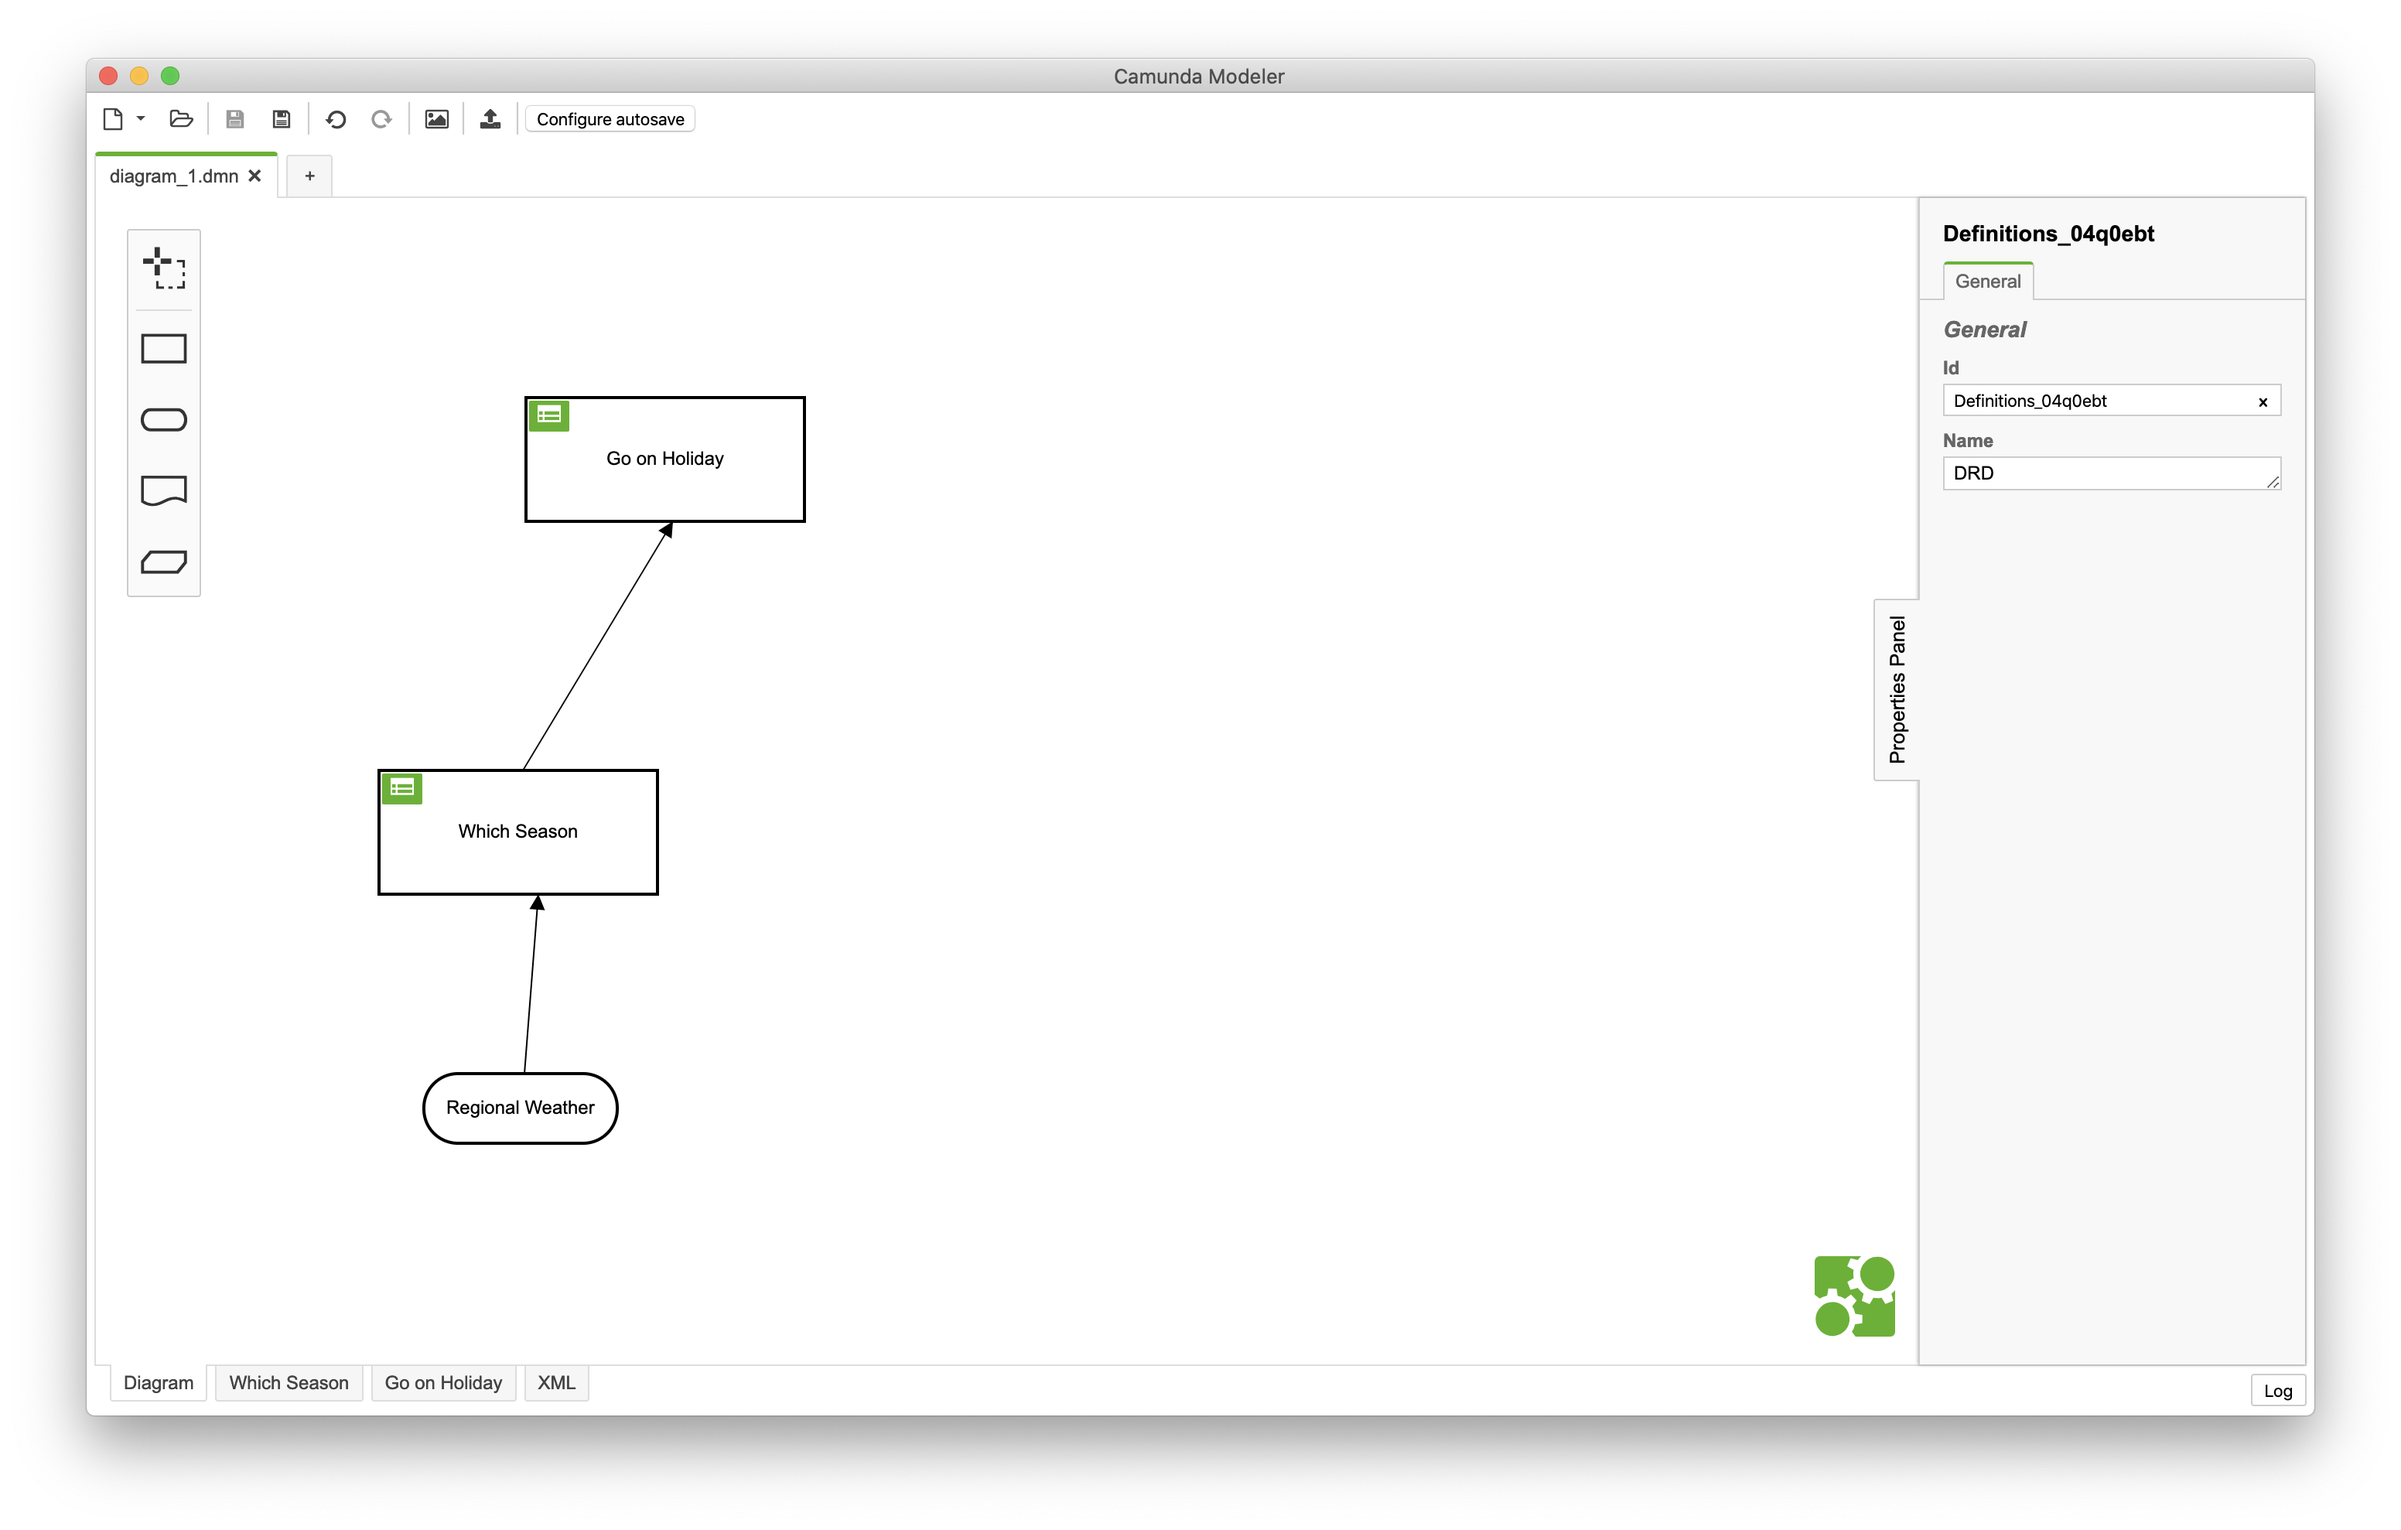
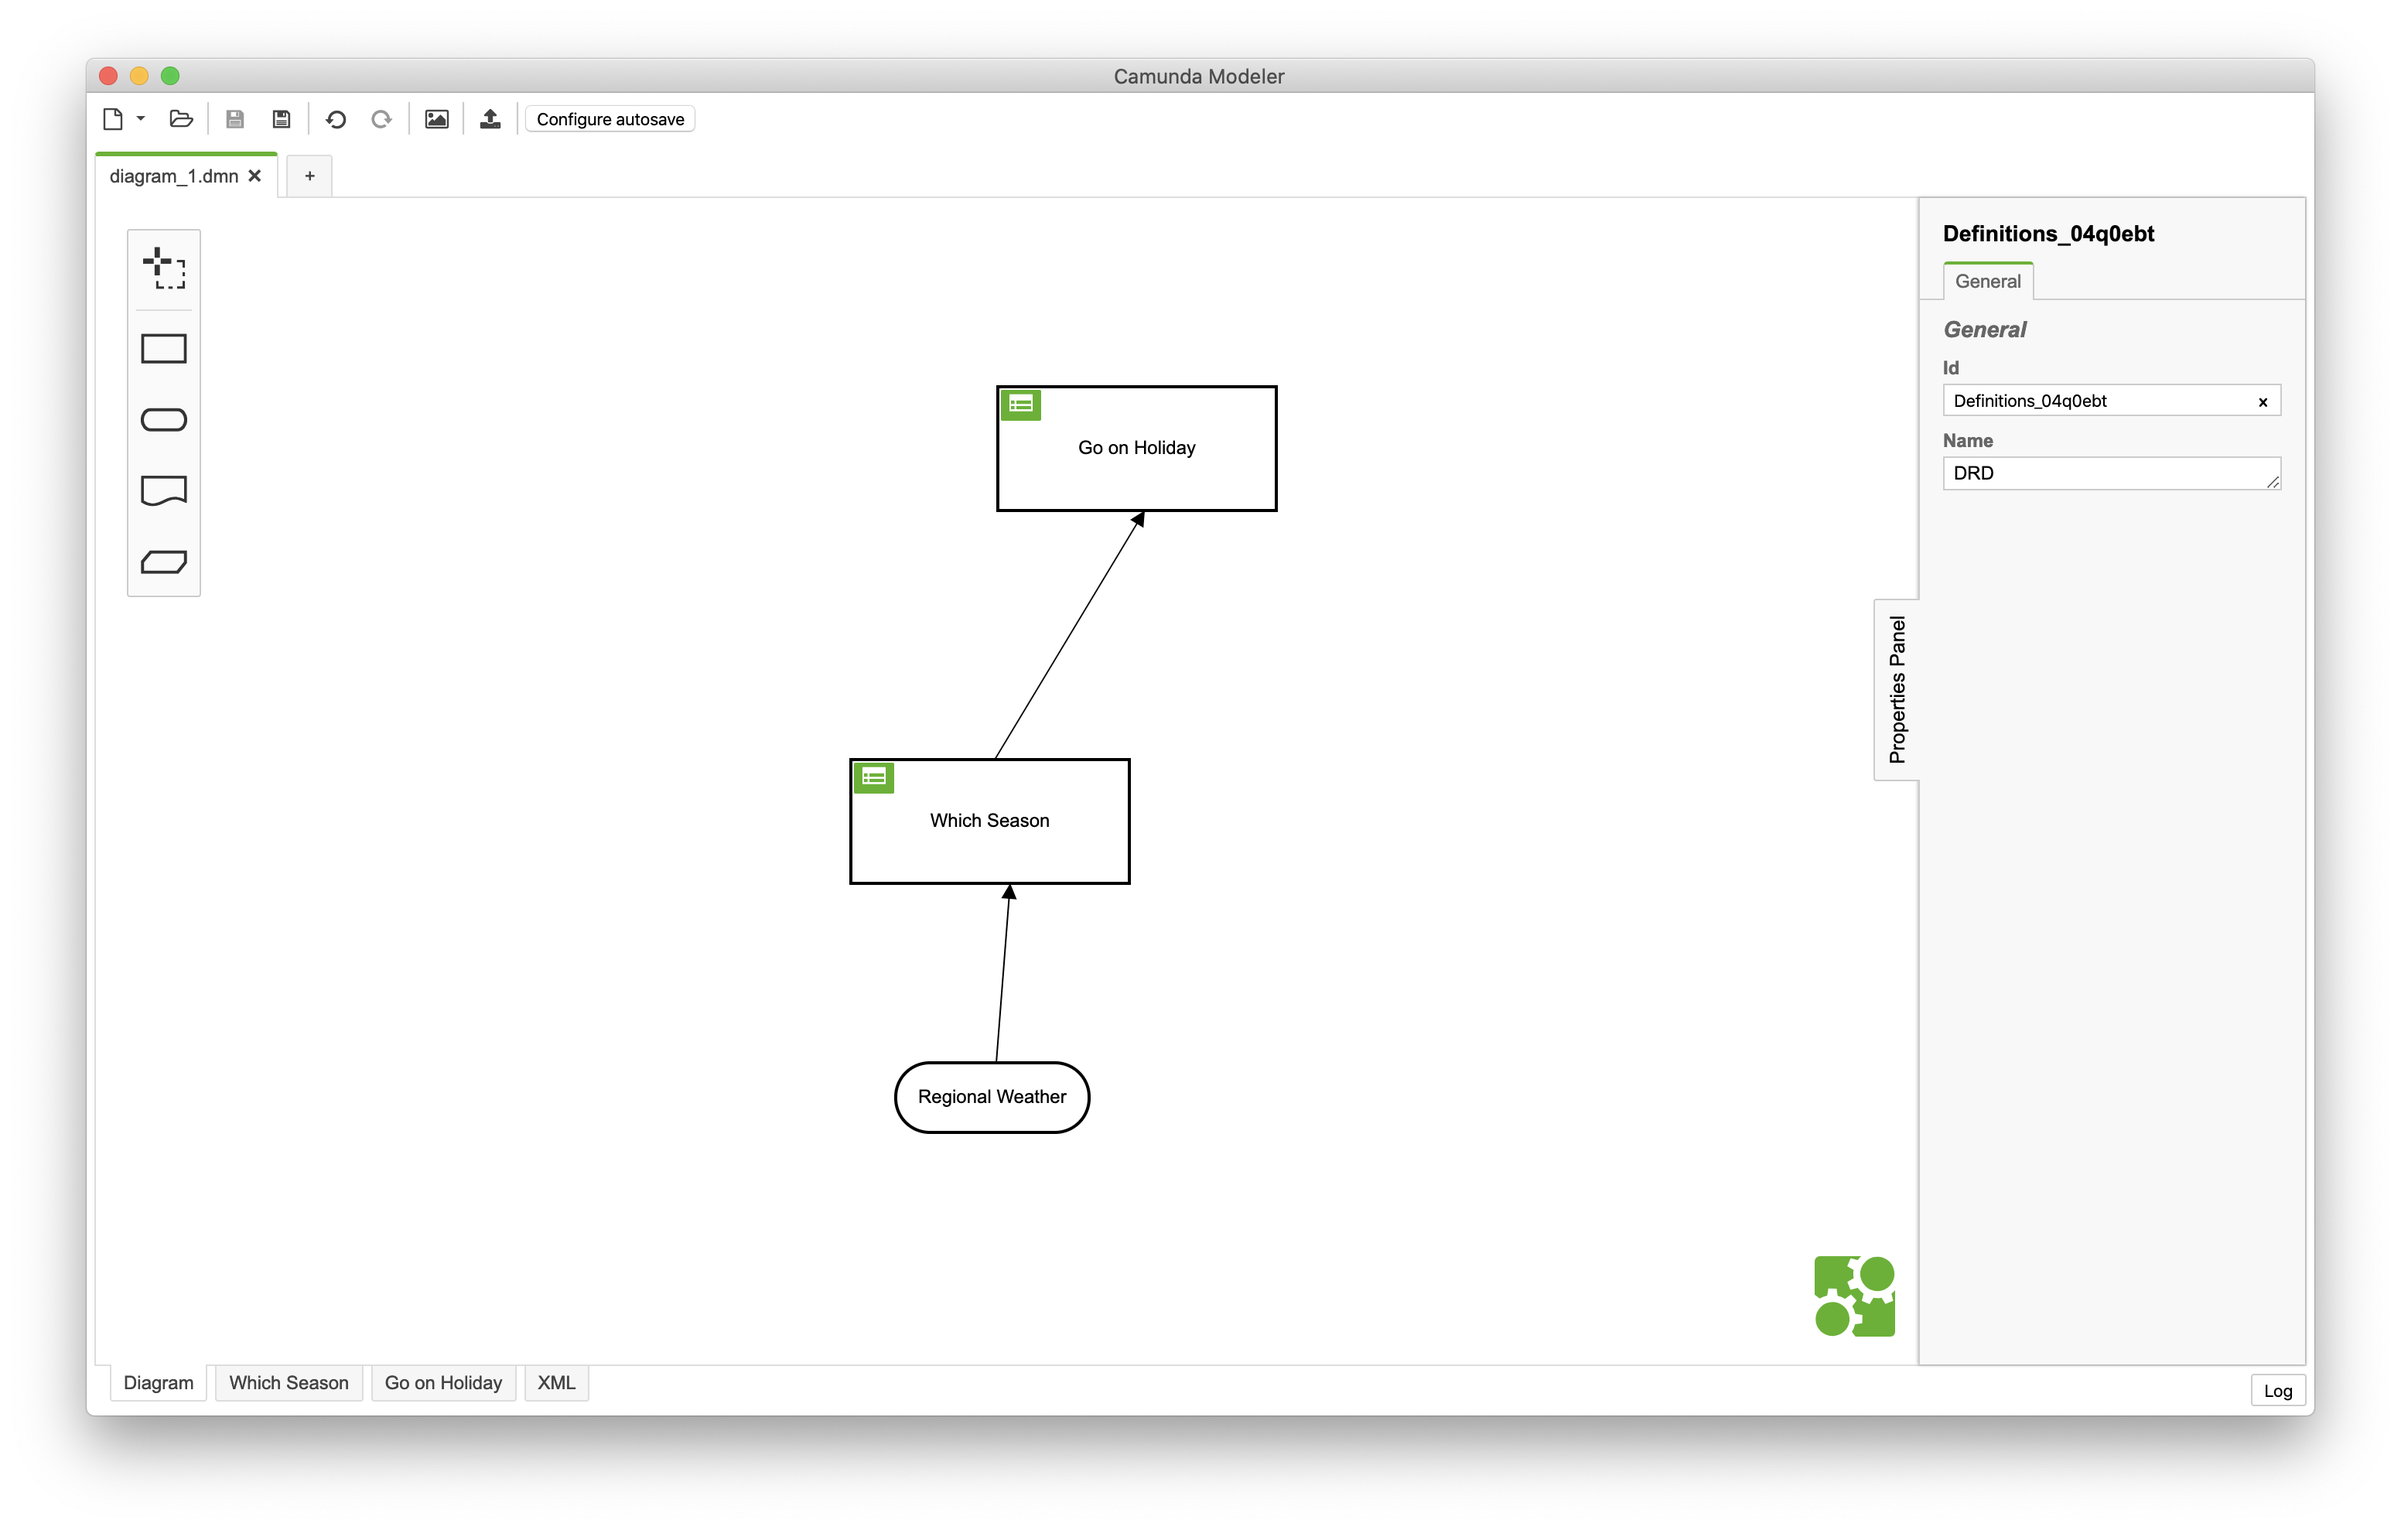
feat(project): add relations view #1

diff --git a/public/index.html b/public/index.html
@@ -12,23 +12,23 @@
       <!-- DRD -->
       <div id="view-drd" class="view">
         <div
-            class="interaction-box to-dt-holiday"
-            style="width: 25px; height: 25px; left: 260px; top: 200px; "
+          class="interaction-box to-dt-holiday"
+          style="width: 25px; height: 25px; left: 490px; top: 200px"
         ></div>
 
         <div
-            class="interaction-box to-dt-season"
-            style="width: 25px; height: 25px; left: 190px; top: 380px; "
+          class="interaction-box to-dt-season"
+          style="width: 25px; height: 25px; left: 420px; top: 380px"
         ></div>
 
         <div
-            class="interaction-box to-dt-season"
-            style="width: 60px; height: 20px; left: 115px; top: 670px;"
+          class="interaction-box to-dt-season"
+          style="width: 60px; height: 20px; left: 115px; top: 670px"
         ></div>
 
         <div
-            class="interaction-box to-dt-holiday"
-            style="width: 60px; height: 20px; left: 190px; top: 670px;"
+          class="interaction-box to-dt-holiday"
+          style="width: 60px; height: 20px; left: 190px; top: 670px"
         ></div>
 
         <div class="interaction-box connection"></div>
@@ -71,6 +71,19 @@
         <div
           class="interaction-box to-dt-holiday"
           style="width: 60px; height: 20px; left: 190px;  top: 670px"
+        ></div>
+      </div>
+
+      <!-- Relations View -->
+      <div id="view-drd-relations" class="view">
+        <div
+          class="interaction-box to-drd"
+          style="width: 25px; height: 25px; left: 850px; top: 90px"
+        ></div>
+
+        <div
+          class="interaction-box to-drd"
+          style="width: 90px; height: 40px; left: 768px; top: 568px"
         ></div>
       </div>
     </div>

diff --git a/public/js/script.js b/public/js/script.js
@@ -1,9 +1,9 @@
 const views = {
     drd: { selector: "#view-drd" },
     'dt-season': { selector: "#view-dt-season" },
-    'dt-holiday': { selector: "#view-dt-holiday" }
+    'dt-holiday': { selector: "#view-dt-holiday" },
+    'drd-relations': { selector: "#view-drd-relations" }
 }
-
 
 function switchView(viewId) {
 
@@ -11,6 +11,8 @@ function switchView(viewId) {
     const newView = views[viewId];
     const node = $(newView.selector);
     node.css('visibility', 'visible');
+
+    console.log(node);
 
     // make all others invisible
     Object.values(views).forEach(v => {
@@ -20,22 +22,34 @@ function switchView(viewId) {
     });
 }
 
+function toggleDRDHovers(val) {
+    const node1 = $('.connection-outline-permanent');
+
+    const node2 = $('.see-relations');
+
+    node1.css('visibility', val);
+    node2.css('visibility', val);
+}
+
 $(document).ready(function(){
     $('.to-dt-holiday').click(switchView.bind(this, 'dt-holiday'));
     $('.to-dt-season').click(switchView.bind(this, 'dt-season'));
     $('.to-drd').click(switchView.bind(this, 'drd'));
+    
+    $('.see-relations').click(function() {
+        switchView('drd-relations');
+        toggleDRDHovers('hidden');
+    });
 
     $('#view-drd').click(function(e) {
         if (e.target !== this) {
             return;
         }
 
-        $('.connection-outline-permanent').css('visibility', 'hidden');
-        $('.see-relations').css('visibility', 'hidden');
+        toggleDRDHovers('hidden');
     });
 
     $('.connection').click(function() {
-        $('.connection-outline-permanent').css('visibility', 'visible');
-        $('.see-relations').css('visibility', 'visible');
+        toggleDRDHovers('visible');
     });
 });

diff --git a/public/css/styles.css b/public/css/styles.css
@@ -17,6 +17,11 @@ body {
   visibility: hidden;
 }
 
+#view-drd-relations {
+  background-image: url(/views/drd_relations.png);
+  visibility: hidden;
+}
+
 .view {
   position: fixed;
   width: 1200px;
@@ -37,11 +42,16 @@ body {
   visibility: hidden;
   position: fixed;
   width: 100px;
-  height: 20px;
+  height: 25px;
   background: #52b414;
   color: whitesmoke;
-  left: 312px;
-  top: 326px;
+  left: 540px;
+  top: 320px;
+  border-radius: 5px;
+}
+
+.see-relations:hover {
+    cursor: pointer;
 }
 
 .connection-outline-permanent {
@@ -55,8 +65,8 @@ body {
 .connection-outline-permanent {
   width: 15px;
   height: 120px;
-  left: 287px;
-  top: 260px;
+  left: 516px;
+  top: 255px;
   transform: rotate(31deg);
   -moz-transform: rotate(31deg);
   -ms-transform: rotate(31deg);
